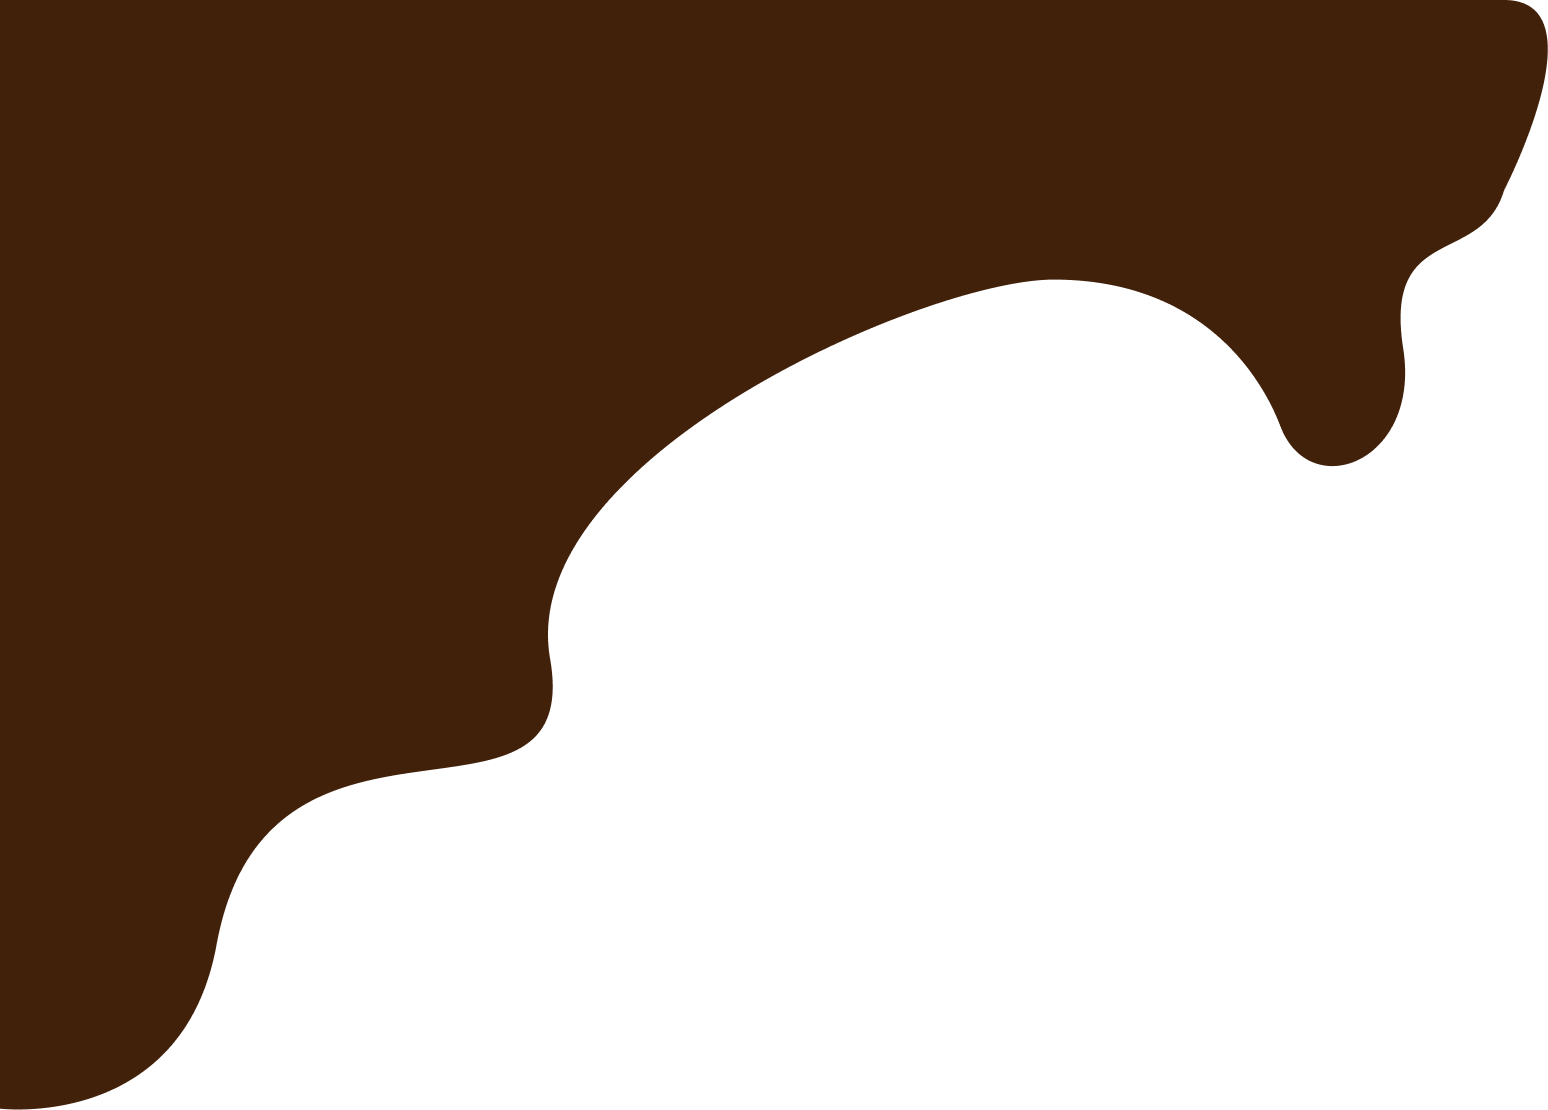
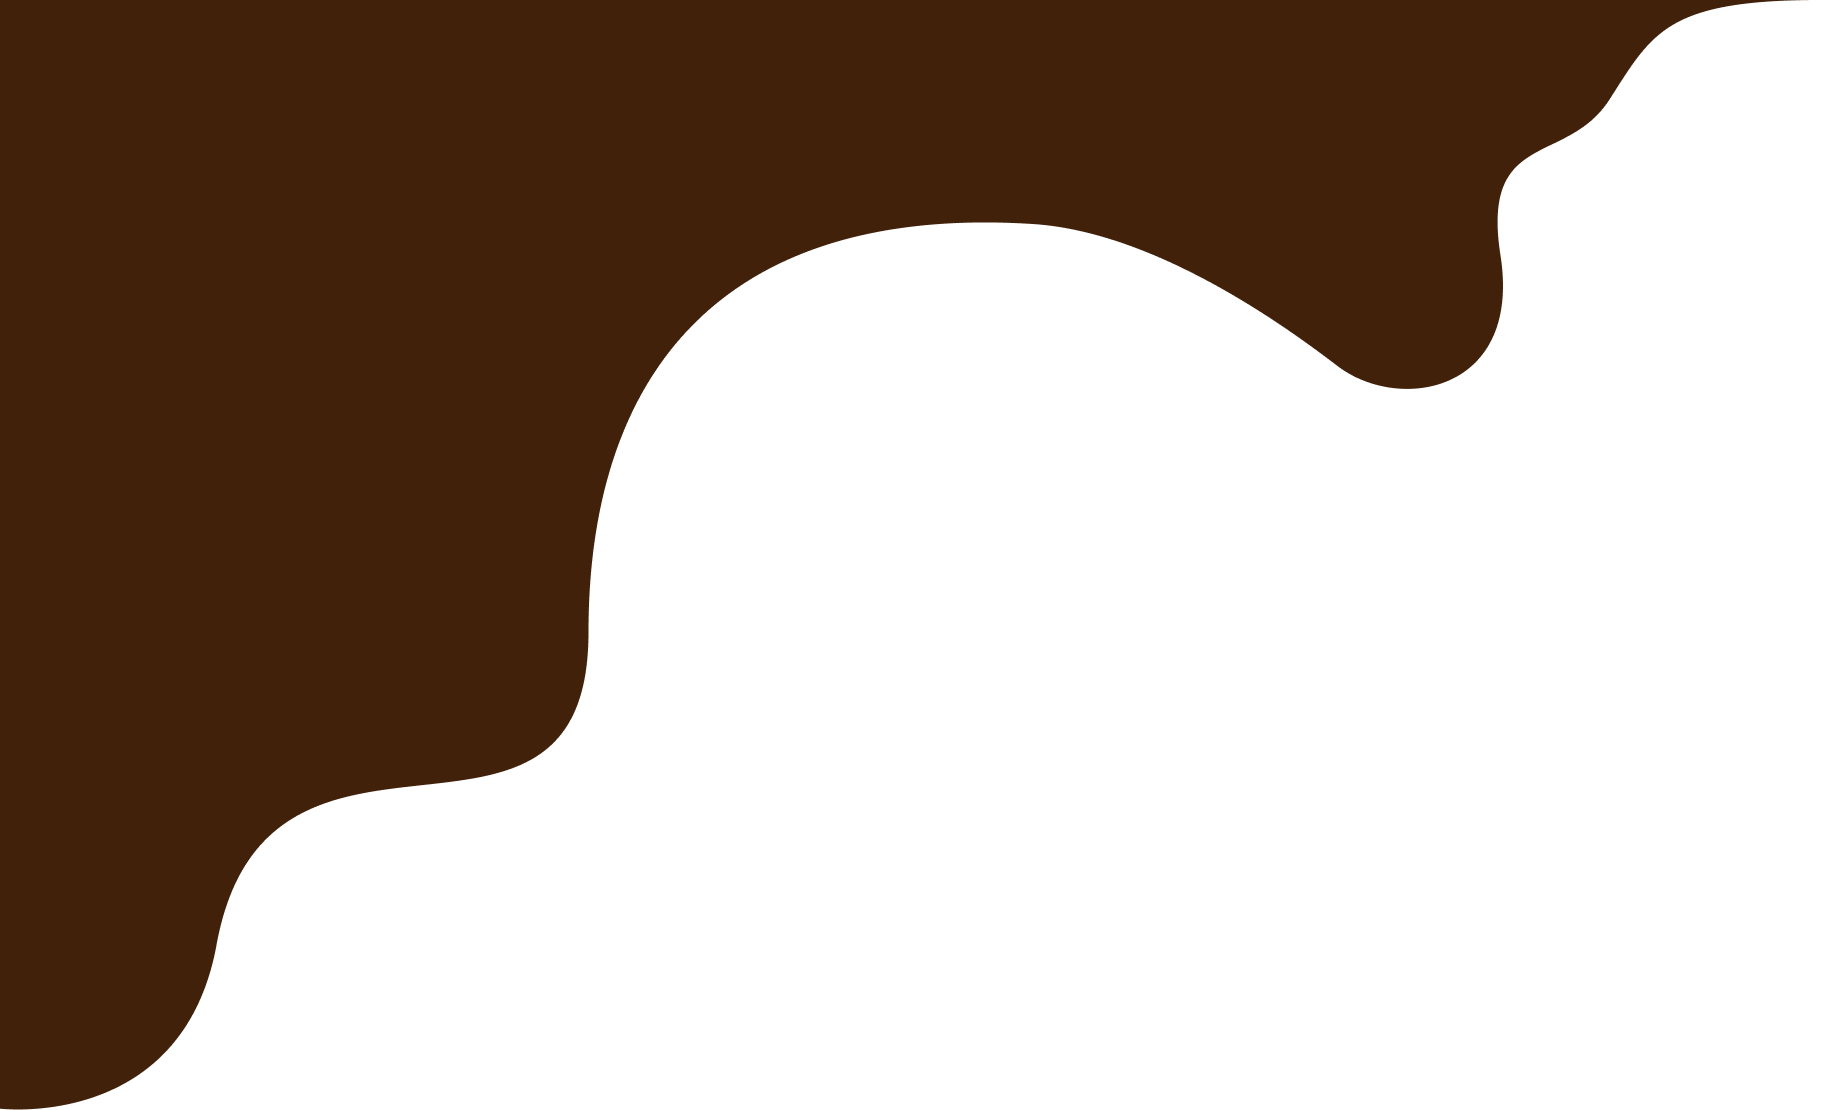
feat: new tache and padding top

Changed region(s): [[0.2481, 0.0, 1.0, 0.7045], [0.062, 0.7045, 0.2171, 0.9802], [0.031, 0.9802, 0.062, 1.0]]

diff --git a/main.js b/main.js
@@ -32,6 +32,9 @@ document.querySelectorAll('.capsule_animation').forEach((element) => {
 gsap.to(".tasseCofee", {
   scrollTrigger: {
     trigger: ".tasseCofee",
+    end: "center",
+    markers: true,
+
     scrub: 1
   },
   opacity: 1,
@@ -58,7 +61,6 @@ gsap.to(".pTransition", {
     trigger: ".pTransition",
     start: "center center",
     end: "+=50",
-    markers: true,
     scrub: 1
   },
   opacity: 1
@@ -96,6 +98,7 @@ gsap.to(".section--time", {
 gsap.to(".section--time", {
   scrollTrigger: {
     trigger: ".section--time",
+
     start: "top top",
     toggleActions: "restart pause reverse none",
     end: "+=200px",

diff --git a/assets/css/style.css b/assets/css/style.css
@@ -33,6 +33,7 @@
 
 
   h1 {
+    padding-top: 100px;
     background-color: var(--color-chocolat);
     color: var(--color-beige);
     text-align: center;
@@ -89,8 +90,8 @@
   opacity: 0;
   width: 500px;
   position: absolute;
-  top: 40%;
-  right: 15%;
+  top: 35%;
+  right: 25%;
   transform: translate(0, -50%) scale(0.5);
 }
 
